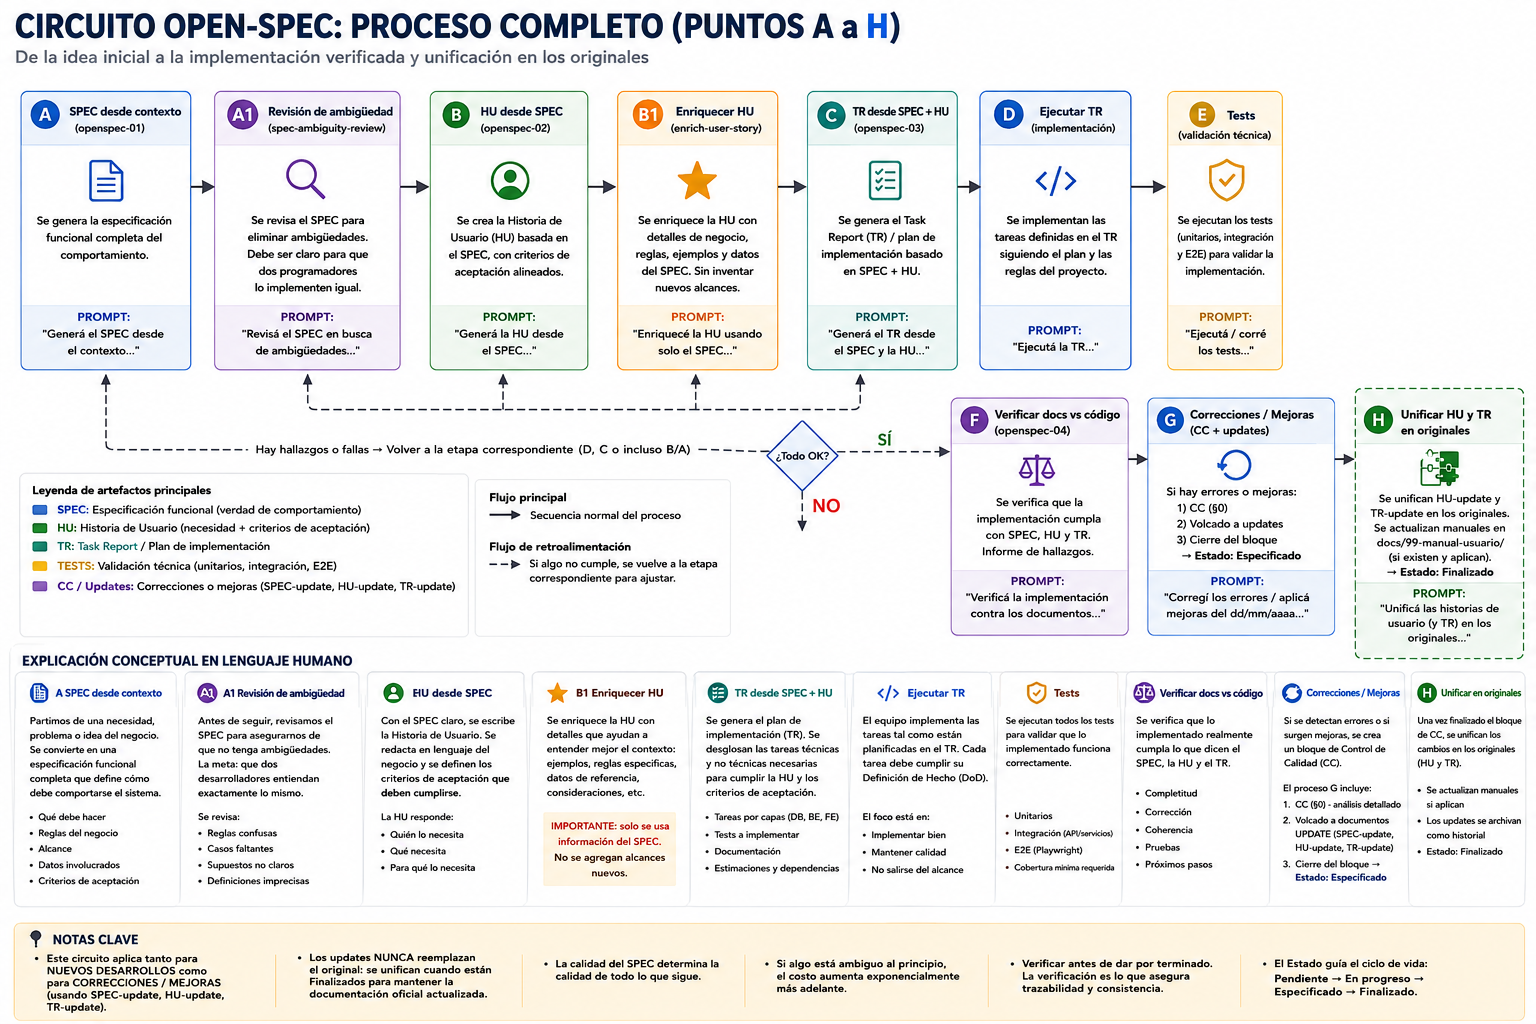
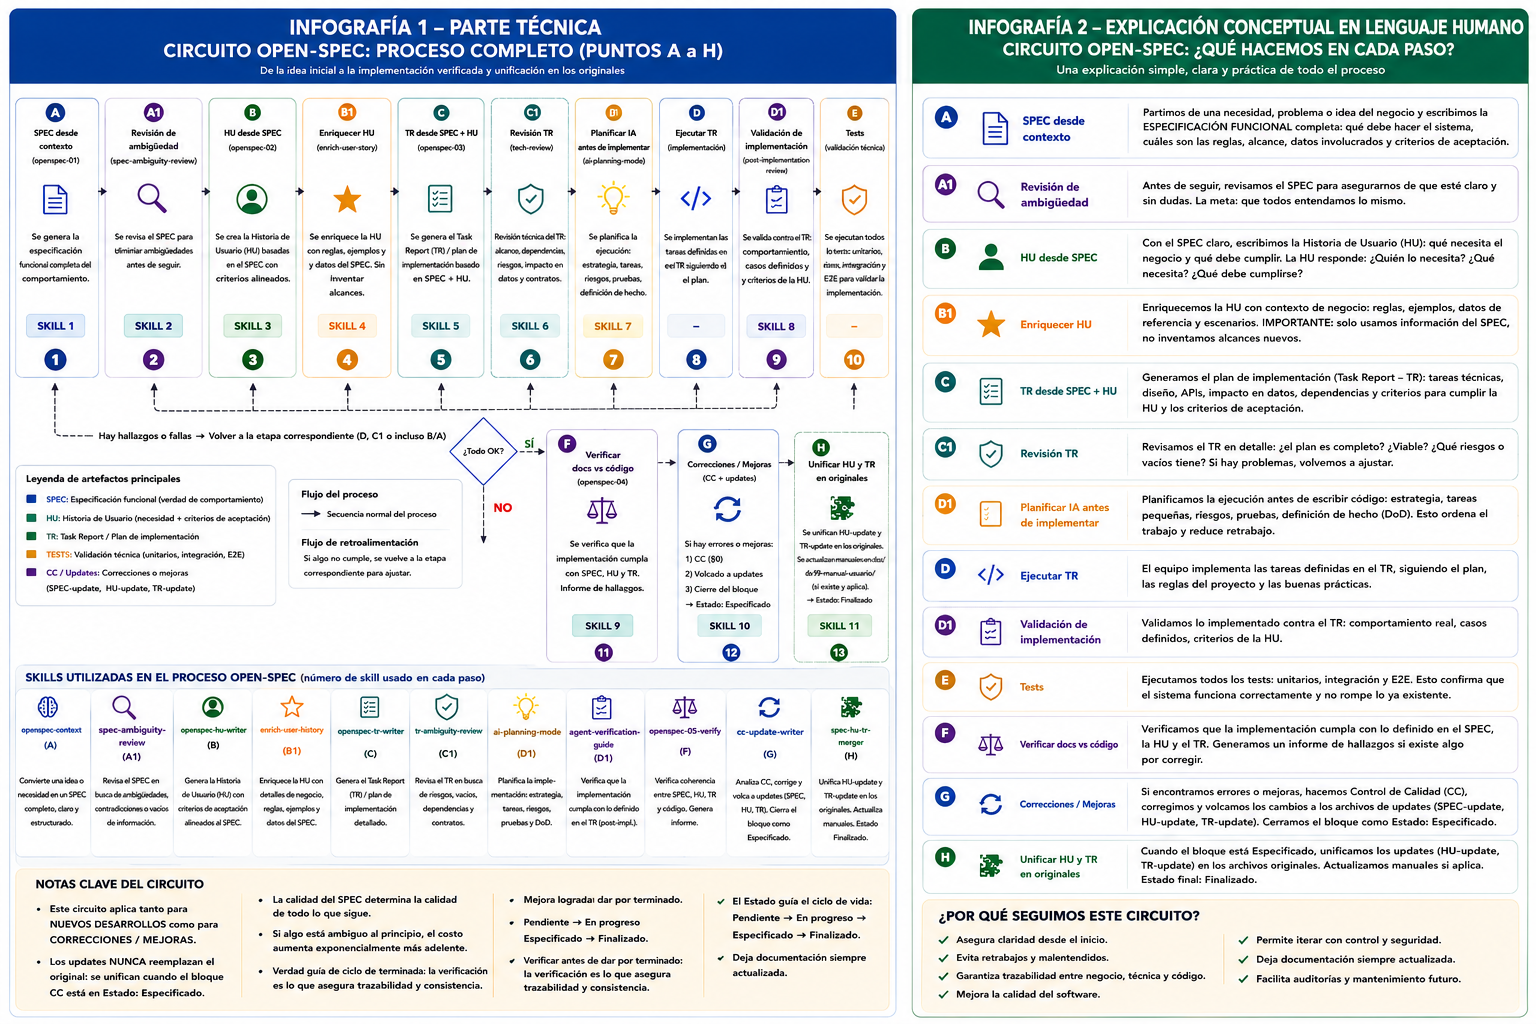
docs: checklist i18n DataGridDx y diagramas SPEC
Amplia 41-i18n-and-testid con sub-checklist Grilla DevExtreme (GEN-03), referencias a patron MONO y loadMessages sin doble anidacion. Actualiza diagramas de diseno SPEC y ajuste menor en dispatcher.

diff --git a/.cursor/rules/40-i18n/41-i18n-and-testid.md b/.cursor/rules/40-i18n/41-i18n-and-testid.md
@@ -110,8 +110,8 @@ Al implementar o revisar pantallas **en cualquier módulo o feature**, verificar
 - [ ] **Menú (`PQ_MENUS` u origen equivalente):** etiquetas visibles según locale (clave i18n por procedimiento, leyenda en BD traducible, u otra estrategia documentada en `docs/frontend/i18n.md`).
 - [ ] **Dashboards:** títulos, labels, mensaje de vacío / «sin datos».
 - [ ] **ABM:** título del proceso alineado al menú.
-- [ ] **Grillas:** títulos de grilla y **captions** de columnas (incl. DevExtreme).
-- [ ] **Filtros:** textos de listas para filtros y **labels** de cada filtro.
+- [ ] **Grillas:** títulos de proceso/pantalla, **captions** de columnas (`grid.column.*`), hints de acciones por fila (`grid.action.*`), mensajes vacío/carga/error (`grid.empty`, `grid.loading`, `grid.error.load`). En MONO/PaqSuite transversal: usar **`DataGridDx`** (no `DataGrid` suelto). **Checklist detallado DevExtreme:** subsección **Grilla DevExtreme (`DataGridDx`)** más abajo.
+- [ ] **Filtros:** textos de listas para filtros y **labels** de cada filtro (en grilla transversal, los operadores de `FilterRow` van en el sub-checklist `DataGridDx`).
 - [ ] **Popups / modales:** título del diálogo; labels de campos; captions de checkboxes; aclaraciones (p. ej. «solo lectura»); botones (Guardar, Cancelar, etc.).
 - [ ] **Cinco locales:** toda clave usada en la pantalla existe en `es`, `en`, `pt`, `fr`, `it` con la misma jerarquía; **probar** cambiando idioma (evitar confiar solo en el fallback español del código).
 - [ ] **Perfil y seguridad:** pantalla de perfil, cambio de contraseña, **olvidé contraseña** y **restablecer contraseña** (títulos, ayudas, errores).
@@ -119,9 +119,36 @@ Al implementar o revisar pantallas **en cualquier módulo o feature**, verificar
 - [ ] **Placeholders y tooltips:** `placeholder`, `title` (tooltip nativo) y textos de ayuda bajo campos cuando sean visibles al usuario.
 - [ ] **Parámetros generales (HU-007, `PQ_PARAMETROS_GRAL`):** las etiquetas y ayudas por fila (`caption` / `tooltip` desde API) deben pasar por **`translateParametroCaption`** / **`translateParametroTooltip`** (`frontend/src/shared/services/parametrosGralDisplay.ts`), con claves **`parametrosGral.items.{Programa}.{clave}.caption`** y **`.tooltip`**. Al dar de alta un parámetro o un módulo nuevo, añadir esas claves en **los cinco** `frontend/src/i18n/locales/*.json` con el mismo árbol (el español puede coincidir con el texto de semilla/API; en otros idiomas no depender solo del fallback español). Ver **`.cursor/rules/multi/13-parametros-generales-ui-listado-y-edicion-por-tipo.md`** ó **`.cursor/rules/mono/13-parametros-generales-ui-listado-y-edicion-por-tipo.md`**.
 - [ ] **Toasts, alerts y diálogos de confirmación** (p. ej. eliminar, cancelar con cambios): cuerpo del mensaje y botones.
-- [ ] **DevExtreme (DataGrid, Lookup, Form, Popup, Pager, etc.):** muchos textos vienen del paquete en inglés por defecto; cargar **localización** (`devextreme/localization` + `loadMessages`) o equivalente para los idiomas soportados, además de los `caption` definidos en código.
+- [ ] **DevExtreme (Lookup, Form, Popup, Pager, etc.):** cargar **localización** (`devextreme/localization` + `loadMessages` + `locale()`) para los idiomas soportados, además de `caption`/`hint` en código. Para **`DataGrid` transversal** no basta esta línea: aplicar el sub-checklist **Grilla DevExtreme (`DataGridDx`)** (hallazgos GEN-03 / MONO).
 - [ ] **Mensajes de validación** generados en cliente (y mensajes de error de negocio que solo llegan como string del API sin código): mapear a claves i18n cuando se muestren al usuario.
 - [ ] **E2E:** preferir `data-testid` / roles; evitar assertions que dependan de **una sola cadena** en español en pantallas que deban soportar cambio de idioma (salvo tests dedicados a i18n).
+
+#### Grilla DevExtreme (`DataGridDx`) — checklist ampliado (MONO / GEN-03)
+
+Derivado de correcciones QA 2026-06-01. **Patrón normativo:** `docs/00-contexto/_mono/03-ui-transversal/patron-i18n-grilla-devextreme.md`. **Checklist TR:** [TR-GEN-01-idioma](docs/04-tareas/001-Generaliddes/TR-GEN-01-idioma.md) ítems 21–28. **Referencia validada:** [F-GEN-03-cierre-formal](docs/04-tareas/001-Generaliddes/F-GEN-03-cierre-formal.md) (QA manual 2026-06-01).
+
+**Infraestructura (app / proyecto):**
+
+- [x] `syncDevExtremeLocale` al bootstrap y al cambiar idioma (`LocaleProvider` / `i18n.changeLanguage`).
+- [x] `loadMessages(esMessages)` con el JSON oficial DX tal cual (`{ "es": { … } }`); **prohibido** `loadMessages({ es: esMessages })` (doble anidación → menús y pager en inglés).
+- [x] Overrides `grid.dx.*` → `dxDataGrid-*` en `gridDevExtremeMessages.ts`; misma clave en los **cinco** `frontend/src/locales/*.json`.
+- [x] Tests de regresión: `syncDevExtremeLocale.test.ts`, `gridDevExtremeMessages.test.ts`.
+
+**Por cada instancia `DataGridDx` (validar en QA cambiando idioma, sin F5):**
+
+- [x] **FilterRow:** operadores (igual, contiene, empieza con, …) vía `operationDescriptions` + `grid.dx.filter.*` (no confiar solo en el bundle DX).
+- [x] **Group panel (vacío):** `GroupPanel.emptyPanelText` + `grid.dx.groupPanelEmpty`.
+- [x] **Column Chooser:** `title` + `emptyPanelText` + `grid.dx.columnChooserTitle` / `grid.dx.columnChooserEmpty`.
+- [x] **Menú contextual de encabezado** (clic derecho en cabecera): ordenar, agrupar, desagrupar, mover columna → `grid.dx.sort.*`, `grid.dx.group.*`, `grid.dx.column.move*` (overrides DX).
+- [x] **Paginador:** textos del `Pager` en idioma activo (depende de `loadMessages` correcto).
+- [x] **Captions** de columnas de negocio y **columna acciones** (`grid.column.actions`; evita ítem vacío en chooser).
+- [x] **Hints** de botones por fila (`grid.action.*`); sin texto visible en el botón.
+- [x] **Pie — totalizadores:** menú contextual por **columna** (clic derecho en celda de pie) → `grid.summary.*`; formatos `grid.dx.summary.*`; **un totalizador por columna** (no un bloque global).
+- [x] **Remount al cambiar locale:** `key={\`${gridId}-${locale}\`}` en el `DataGrid` del wrapper.
+- [x] **Vacío / carga / error** del wrapper: `grid.empty`, `grid.loading`, `grid.error.load`.
+- [x] **ABM (+):** botón alta solo con `abm.enabled`; mensaje consulta `grid.consulta.noAbmHint` donde aplique.
+
+**Al añadir un texto DX nuevo en grilla:** (1) clave en los 5 JSON, (2) mapa en `gridDevExtremeMessages.ts`, (3) si el componente expone prop (FilterRow, GroupPanel, ColumnChooser), también en `useDataGridDevExtremeTexts.ts`.
 
 **Referencia de layout:** modales de edición (alta/edición sobre grilla) deben seguir la misma política i18n que el resto de la UI (sin mezclar idiomas en un mismo modal).
 

diff --git a/.cursor/rules/00-arquitectura/01-prompts-programados-dispatcher.md b/.cursor/rules/00-arquitectura/01-prompts-programados-dispatcher.md
@@ -806,7 +806,7 @@ Si el usuario escribe en un mismo mensaje ambas frases (por ejemplo: **Iniciá e
 | Paso | Skill | Pregunta que responde |
 |------|-------|------------------------|
 | **A1** | `/spec-ambiguity-review` | ¿El SPEC es claro antes de HU? |
-| **B1** | `/enrich-user-story` | ¿La HU está bien derivada del SPEC? |
+| **B1** | `/enrich-user-story` | ¿La HU e bien derivada del SPEC? |
 | **C1** | `/tr-ambiguity-review` | ¿La TR es implementable sin interpretar? (contratos, envelope, dependencias, AC) |
 | **D1** | `/ai-planning-mode` | ¿Cómo codificar (archivos, orden, riesgos técnicos)? |
 | **F1** | `/agent-verification-guide` | ¿La documentación y la codificación son consistentes? |
